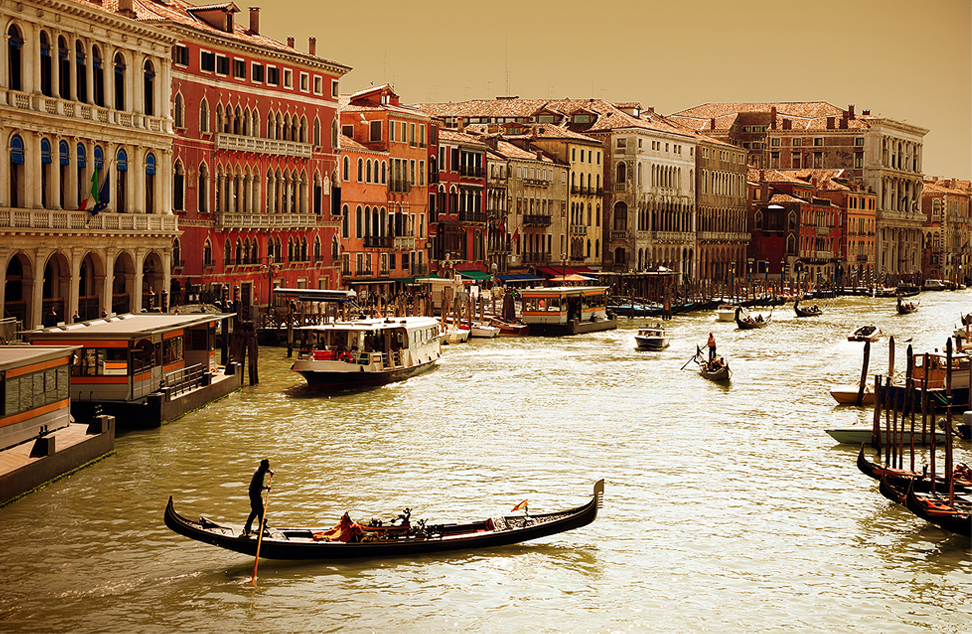
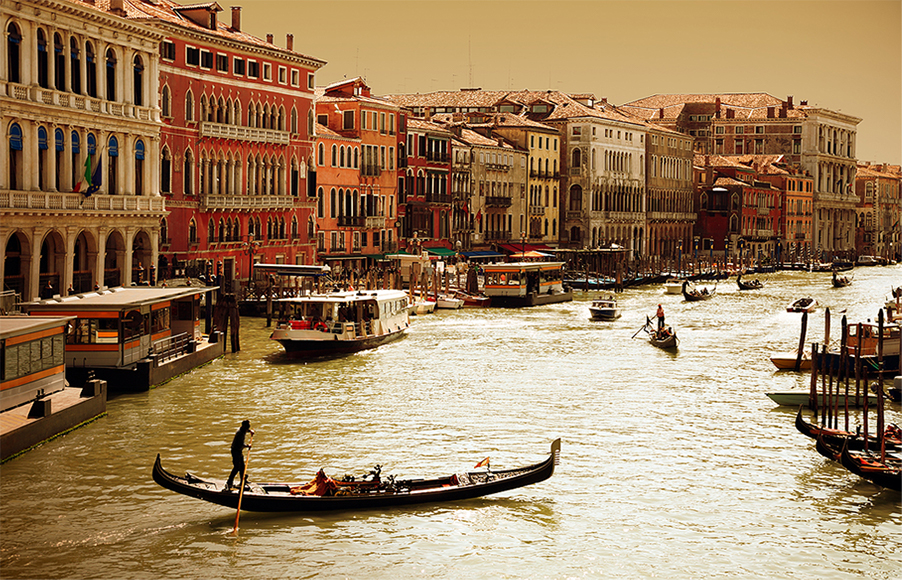
change img

diff --git a/module-7/Home/css/styles.css b/module-7/Home/css/styles.css
@@ -148,13 +148,11 @@ body {
 }
 .slider-image {
     width: 902px;
-    height:580px;
     position: absolute;
 }
 
 .slider-image-1 {
 	width: 902px;
-	height:580px;
     position: static;
 }
 
@@ -298,8 +296,7 @@ h2 {
 }
 
 .photo {   
-    width: 288px;
-	height: 270px;	
+    width: 288px;	
 }
 
 
